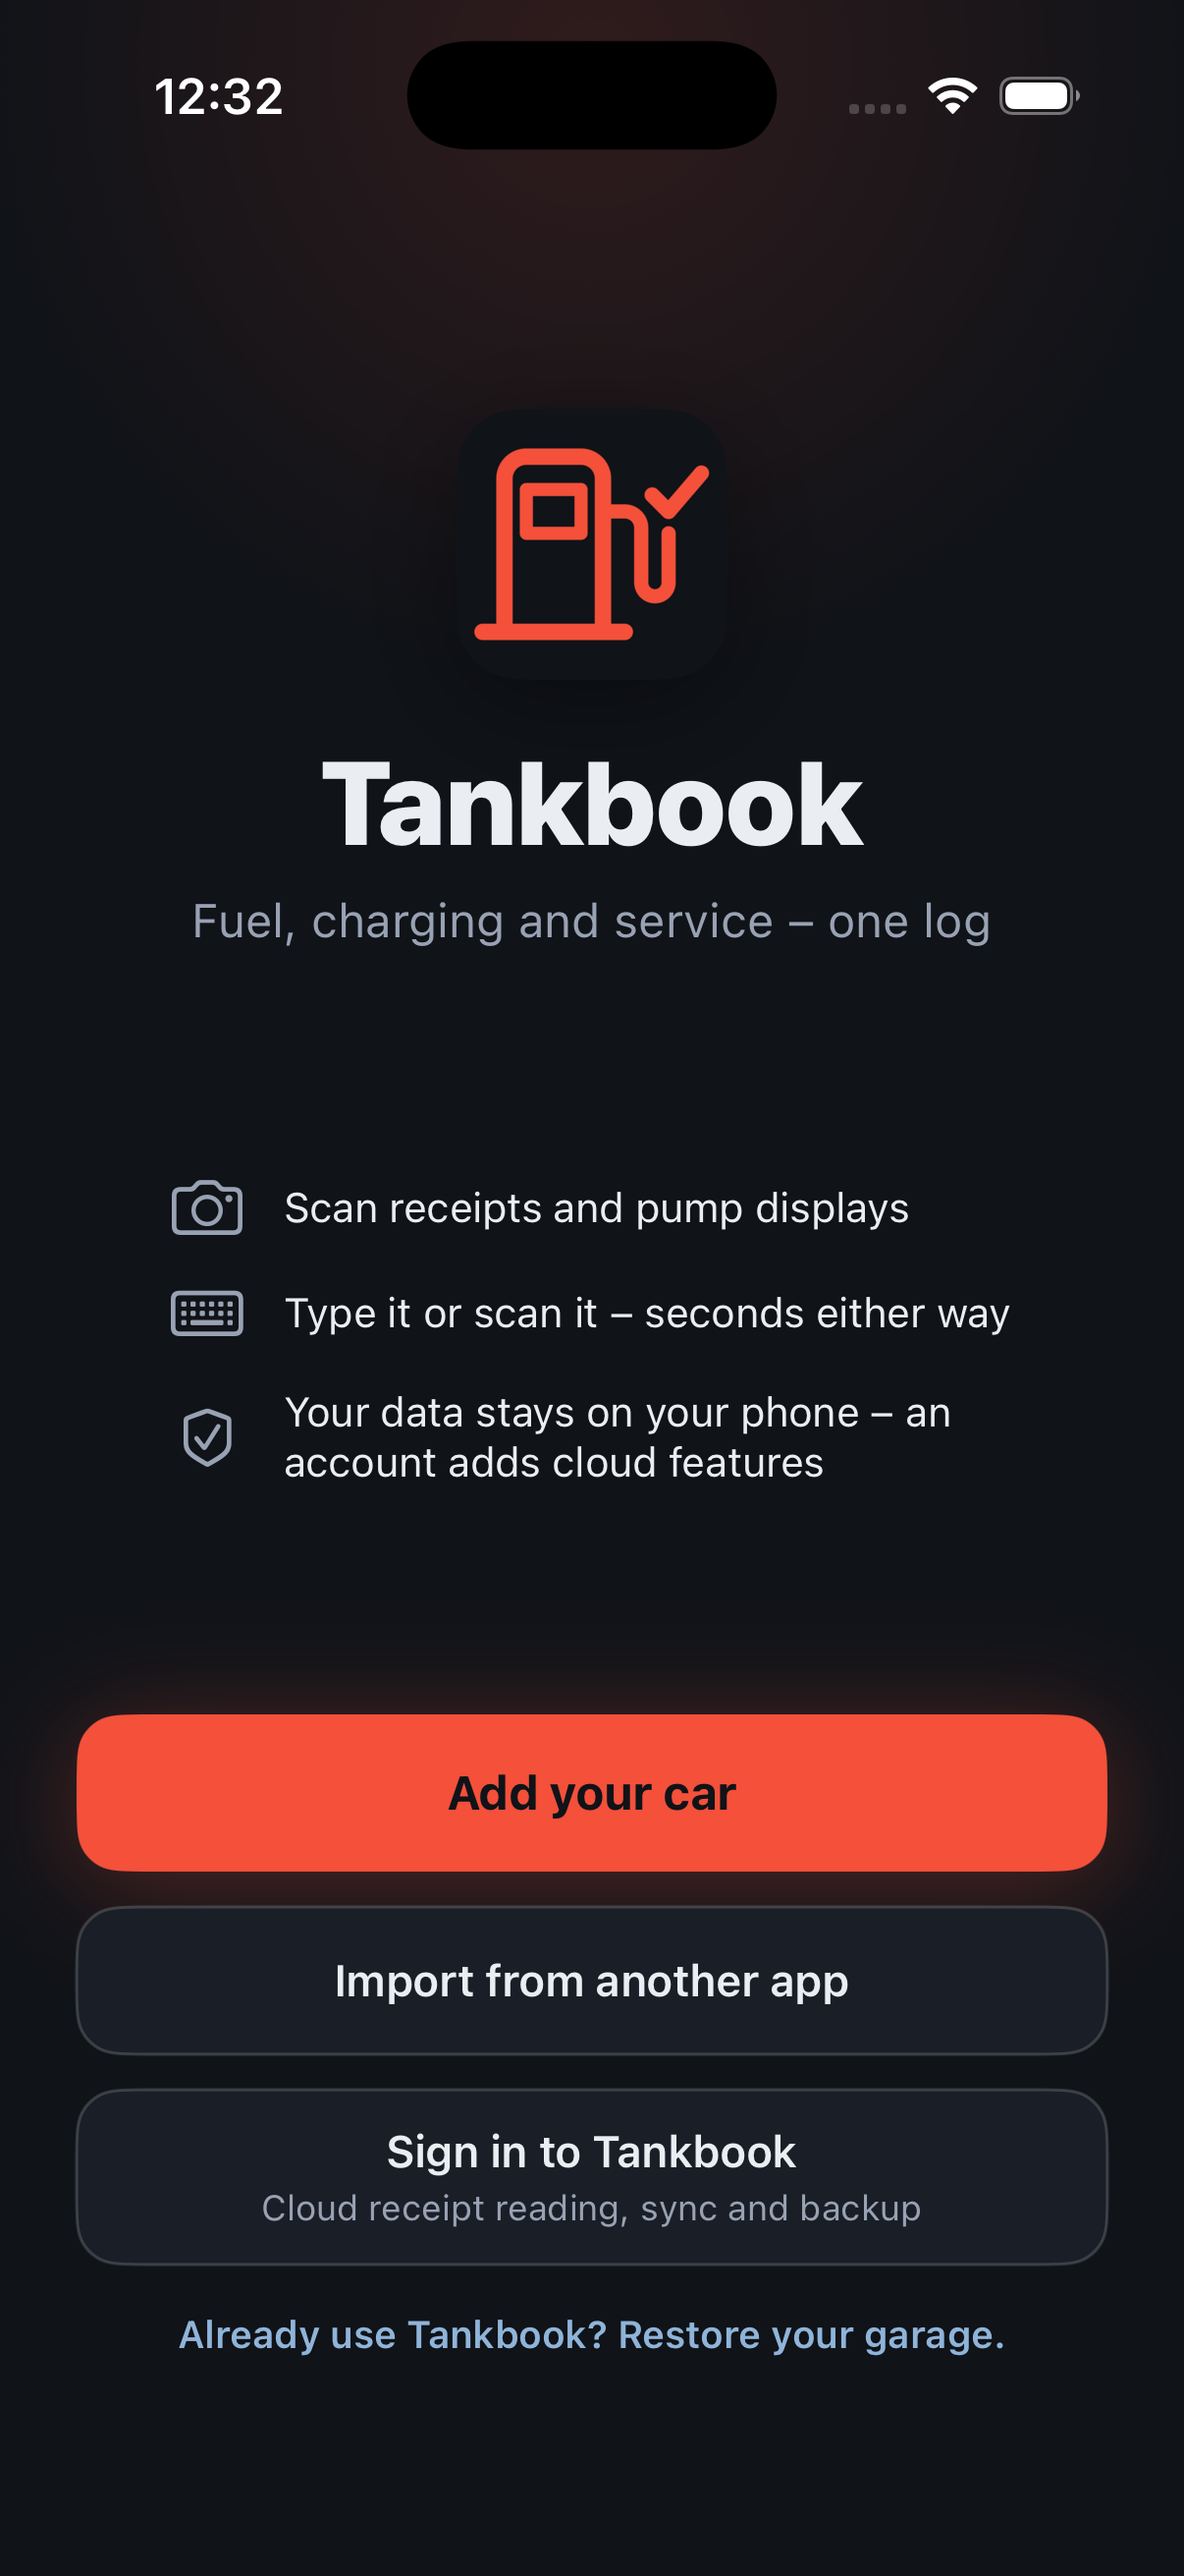
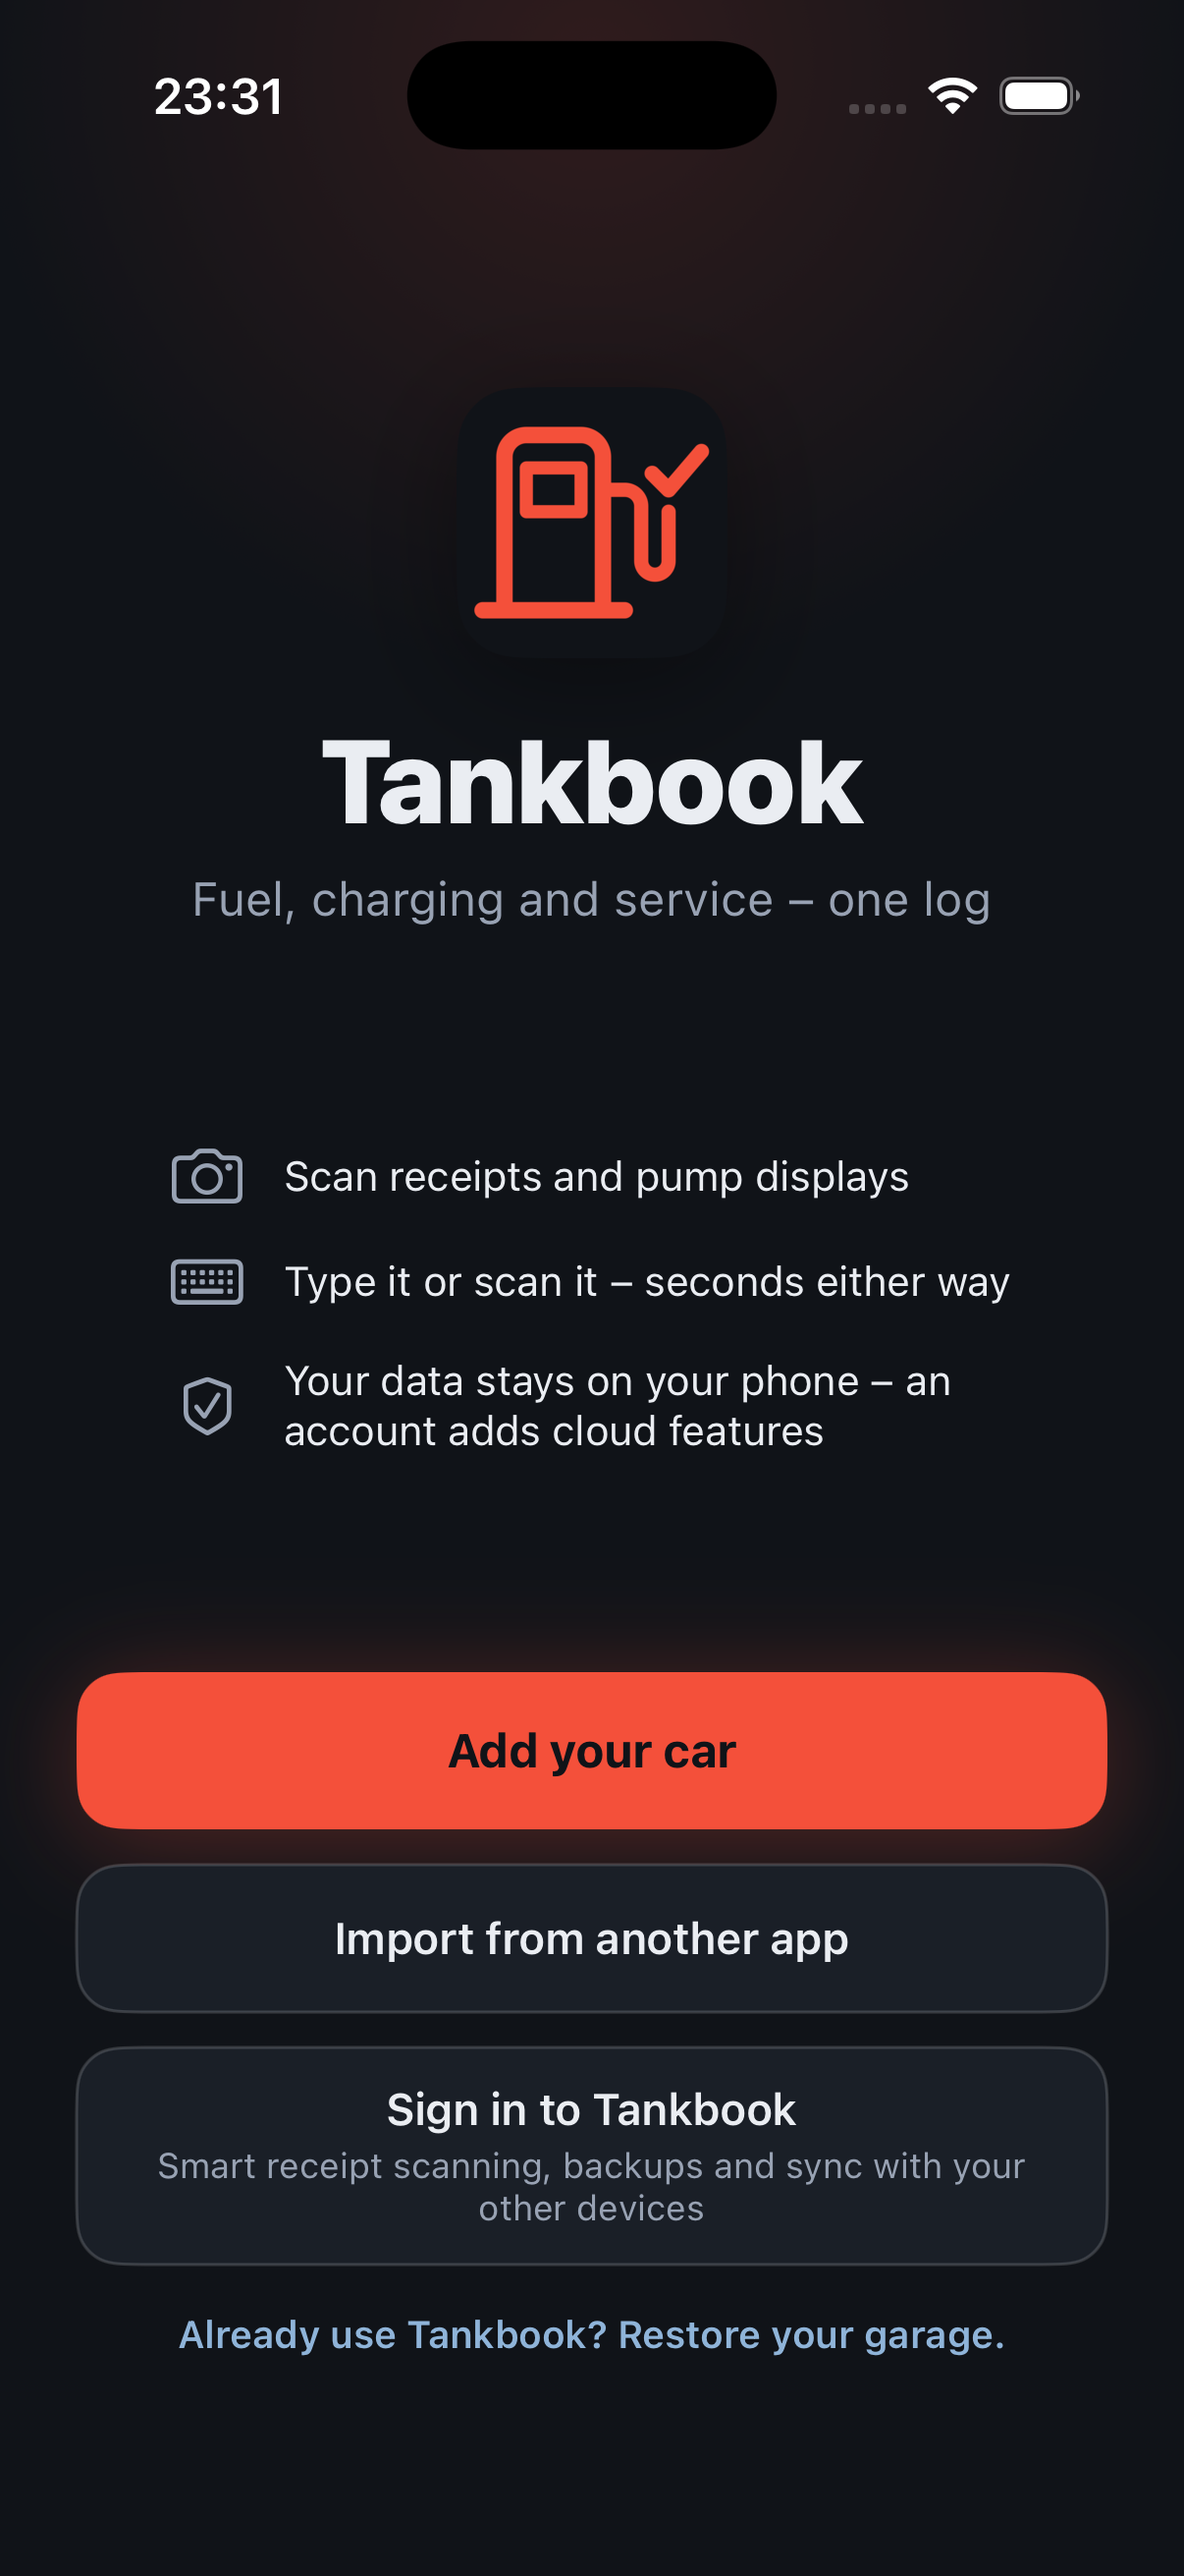
RV.23: reconcile the shipped Welcome copy with its tests and its doc
The independent validation found both suites red, and the cause was
not the change - it was that the product owner's final benefit copy
landed mid-session while four other places still asserted the older
sentence. Per the product owner's decision (2026-09-03) the SHIPPED
wording stays and everything else moves to it:

- WelcomeUITests' two hard-coded phrases now match the shipped copy,
  and carry a note about why they broke: the assertion pinned a
  sentence rather than the invariant, so a copy change turned the
  suite red with no behaviour change. What is load-bearing is that the
  benefit lives ON the door.
- JOURNEYS.md line 27 quotes the shipped line, and records explicitly
  that it drops the word "cloud" - decided knowingly, not lost. The
  measurable difference an account makes to scanning is cloud reading
  (84/96 against 38.3% on-device), and a future rewrite that wants
  that distinction back should put it in this line rather than add a
  screen, which is the argument RV.23 exists to have settled.
- The RU "бакапы" is corrected to "бэкапы", the standard
  transliteration (product owner).

Verified: localization gate 0 (681 keys, 100% RU), app build, and
WelcomeUITests + SignInUITests 18/18 by captured exit code - the row's
two suites are green for the first time since the copy landed. Both
EN/RU screenshots re-shot and opened personally.

diff --git a/ios/App/UITests/WelcomeUITests.swift b/ios/App/UITests/WelcomeUITests.swift
@@ -98,7 +98,12 @@ final class WelcomeUITests: XCTestCase {
 
         let signIn = app.buttons["welcomeSignInButton"]
         XCTAssertTrue(signIn.waitForExistence(timeout: 10))
-        XCTAssertTrue(signIn.label.contains("Cloud receipt reading, sync and backup"),
+        // The exact sentence is the product owner's (2026-09-03) and this
+        // assertion follows it rather than leading it: the previous wording was
+        // hard-coded here, so a copy change turned the suite red without any
+        // behaviour changing. What is load-bearing is that the benefit lives ON
+        // the door - assert that, and quote the label when it does not.
+        XCTAssertTrue(signIn.label.contains("Smart receipt scanning, backups and sync"),
                       "the benefit must live ON the door, not somewhere on the screen: \(signIn.label)")
 
         // The local-first promise survives, two-sided (hard rule 1).
@@ -169,9 +174,9 @@ final class WelcomeUITests: XCTestCase {
         let signIn = app.buttons["welcomeSignInButton"]
         XCTAssertTrue(signIn.label.contains("Войти в Tankbook"),
                       "the door is a verb in RU, not the noun \"Вход\": \(signIn.label)")
-        XCTAssertTrue(signIn.label.contains("Облачное распознавание чеков"),
+        XCTAssertTrue(signIn.label.contains("Умное распознавание чеков"),
                       "the benefit is localised too: \(signIn.label)")
-        XCTAssertFalse(signIn.label.contains("Cloud receipt"),
+        XCTAssertFalse(signIn.label.contains("Smart receipt"),
                        "no English leaks into the RU door: \(signIn.label)")
 
         XCTAssertTrue(app.staticTexts[

diff --git a/docs/JOURNEYS.md b/docs/JOURNEYS.md
@@ -24,7 +24,7 @@ Journeys are grouped by lifecycle: **acquisition → core loop → periodic → 
 
 | Stage | Doing | Thinking / feeling | Notes |
 |---|---|---|---|
-| Open | Skips a 1-screen promise ("Point. Scan. Done.") | "Show me, don't pitch me" – impatient | ⚠ Every extra onboarding screen loses users → one screen, skippable *(PJ.3: the Welcome root and its three paths – "Add your car", "Import from another app", "Sign in to Tankbook" – are real since 2026-08-30, behind no `-force*` fixture. **RV.23 (2026-09-03) re-argued that one screen rather than adding a second one:** the third promise no longer says "No account needed" – which pre-empted the decision before the user knew what it cost them – but the two-sided "Your data stays on your phone – an account adds cloud features"; sign-in is a peer button naming what an account buys ("Cloud receipt reading, sync and backup" – all free, RV.4) instead of a 13 pt link; and "Add your car" stays a peer that continues with no account, because a user who never signs in has chosen correctly.)* |
+| Open | Skips a 1-screen promise ("Point. Scan. Done.") | "Show me, don't pitch me" – impatient | ⚠ Every extra onboarding screen loses users → one screen, skippable *(PJ.3: the Welcome root and its three paths – "Add your car", "Import from another app", "Sign in to Tankbook" – are real since 2026-08-30, behind no `-force*` fixture. **RV.23 (2026-09-03) re-argued that one screen rather than adding a second one:** the third promise no longer says "No account needed" – which pre-empted the decision before the user knew what it cost them – but the two-sided "Your data stays on your phone – an account adds cloud features"; sign-in is a peer button naming what an account buys ("Smart receipt scanning, backups and sync with your other devices" – all free, RV.4) instead of a 13 pt link. **The final copy is the product owner's (2026-09-03) and it deliberately drops the word "cloud"**, which the earlier wording carried: the measurable difference an account makes to scanning is cloud reading (84/96 against 38.3% on-device, P4.12), and the shipped line names the benefit without naming that distinction. Recorded here because it was decided knowingly, not lost – a future rewrite that wants the distinction back should put it in this line rather than add a screen; and "Add your car" stays a peer that continues with no account, because a user who never signs in has chosen correctly.)* |
 | Add car | Types make/model or plate, picks powertrain, home currency pre-filled from locale | "That was quick" | → RU locale defaults to ₽ + RU fuel grades; photo of car optional, adds emotional ownership |
 | First entry | Prompted: "Have a receipt from your last fill-up? Scan it" | Curious – this is the promised magic | → The first scan IS onboarding; a bundled demo receipt if they have none. **RV.5:** the very first shot is reviewed before anything is read from it - on a first capture the user has no idea what the app does with a photo, and seeing their own receipt on screen with "Use this" is the cheapest possible proof that it went somewhere |
 | Payoff | Sees the Pump Card lock ✓, entry saved | Delight or disappointment – nothing in between | ⚠ A failed first scan kills trust permanently → confidence gating, instant manual fallback without losing the photo. The review step is also where a *bad frame* is caught before it can be mistaken for bad recognition |
